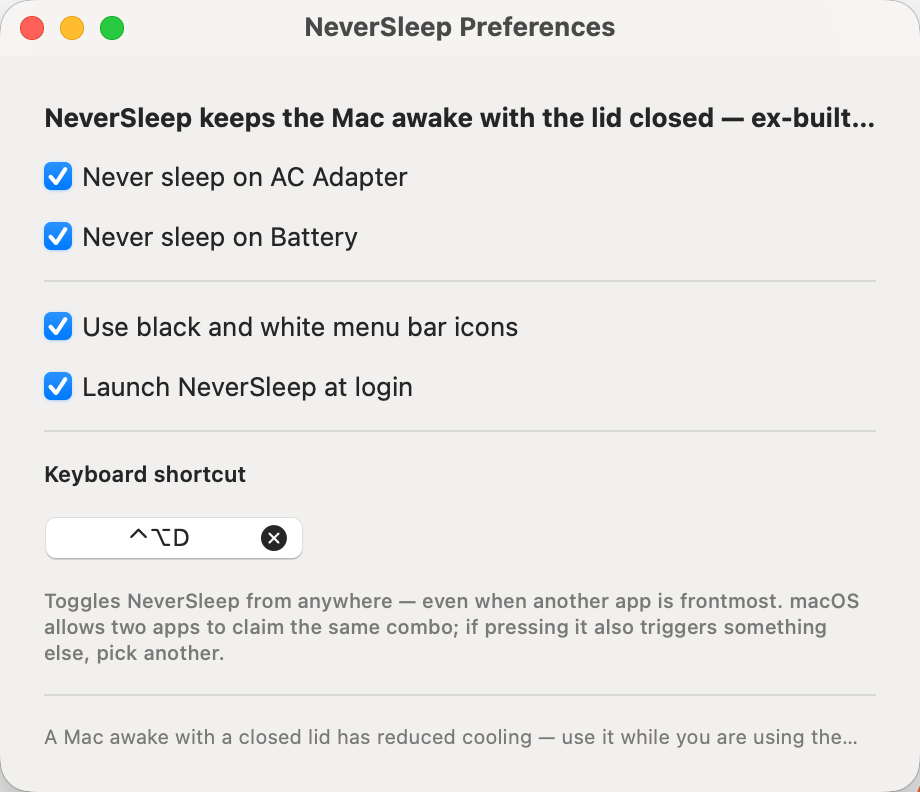
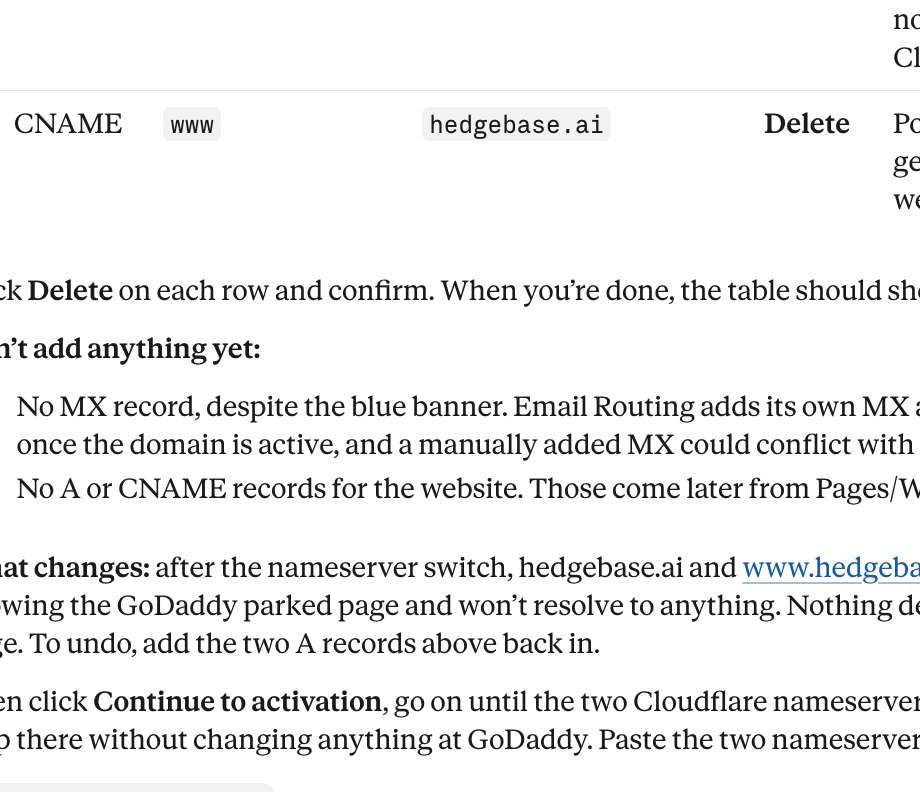
0.12.2: Clear button next to the shortcut recorder (the recorder's embedded cancel cell does not persist removals on macOS 27; verified removal path via setShortcut(nil))

diff --git a/Sources/NeverSleep/PreferencesView.swift b/Sources/NeverSleep/PreferencesView.swift
@@ -18,7 +18,21 @@ struct PreferencesView: View {
             // black field (KeyboardShortcuts package) — click it, press the
             // combo; the shortcut works system-wide, like the double-click.
             Text("Keyboard shortcut").font(.subheadline).fontWeight(.semibold)
-            KeyboardShortcuts.Recorder(for: .toggleSuppression)
+            // The recorder's own ✕ (embedded search-field cancel cell) does not
+            // persist the removal on macOS 27 (operator-reported, 2026-11-16) —
+            // so clearing goes through our own button, which calls the
+            // package's public removal API (setShortcut(nil): unregister +
+            // storage removal + the change notification the recorder observes).
+            HStack(spacing: 8) {
+                KeyboardShortcuts.Recorder(for: .toggleSuppression)
+                Button {
+                    KeyboardShortcuts.setShortcut(nil, for: .toggleSuppression)
+                } label: {
+                    Image(systemName: "delete.left")
+                        .frame(width: 30, height: 24)
+                }
+                .help("Clear the shortcut")
+            }
             if let warning = settings.shortcutWarning {
                 Text(warning).font(.caption2).foregroundColor(.orange)
                     .fixedSize(horizontal: false, vertical: true)

diff --git a/CHANGELOG.md b/CHANGELOG.md
@@ -2,6 +2,13 @@
 
 All notable changes. Format: Keep a Changelog-ish, versioned per the release sequence in `USER.md`.
 
+## [0.12.2] — 2026-11-16: Clear button next to the shortcut recorder
+
+Version bump: patch. Bundle version (`Scripts/make-app.sh`) 0.12.1 → 0.12.2 (build 1201 → 1202).
+
+**Fixed (operator report: the recorder's ✕ did nothing)**
+- `Sources/NeverSleep/PreferencesView.swift` — a **⌫ Clear button** next to the recorder, calling the package's public removal API (`KeyboardShortcuts.setShortcut(nil, for:)` — unregister + storage removal + the change notification the recorder observes). Why: the recorder's embedded ✕ (the search-field cancel cell) is unreliable on macOS 27 — verified via AX that the removal path itself works (`setShortcut(nil)` through the package's ✕ removed the stored shortcut and unregistered the hotkey), while clicks on the glyph did not land (its hit area sits offset from the drawn glyph; clicks at the visual center did nothing). The Clear button always works.
+
 ## [0.12.1] — 2026-11-16: hotfix — SPM resource bundle missing from the packaged app (Preferences crash)
 
 Version bump: patch. Bundle version (`Scripts/make-app.sh`) 0.12.0 → 0.12.1 (build 1200 → 1201).
